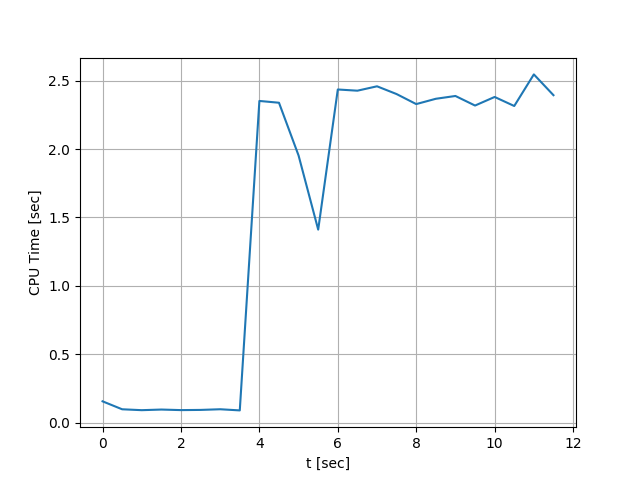
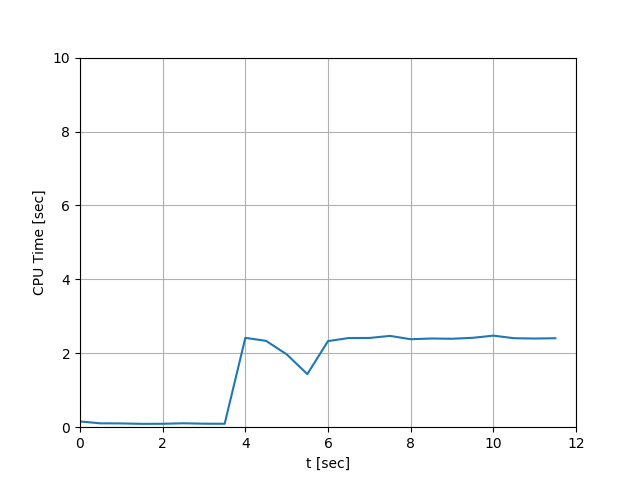
working 1 obstacle avoidance for Comparison.ppt

diff --git a/printPlots.py b/printPlots.py
@@ -61,8 +61,6 @@ def nmpcPlotSol(u_new,path,x0,obstacle,pathType):
             plt.plot(x3, y3, 'r', x4, y4, 'r')
 
     plt.grid(True)
-    plt.ylim([0, 240])
-    plt.xlim([-10, 40])
 
     if True: # obstacle is present:
 
@@ -97,8 +95,8 @@ def nmpcPlotSol(u_new,path,x0,obstacle,pathType):
     nEN = len(East)
     plt.plot(East[0:nEN], North[0:nEN], marker='x', markersize=4, color='b')
     plt.plot(East[0], North[0], marker='o', markersize=4, color='r')
-    #plt.xlim([0, 16])
-    #plt.ylim([0, 128])
+    #plt.ylim([0, 240])
+    #plt.xlim([-10, 40])
     plt.axis('equal')
 
     #plt.draw()
@@ -358,8 +356,8 @@ def nmpcPlot(t,x,u,path,obstacle,tElapsed,V_terminal,latAccel,delChi,settingsFil
     #plt.xlabel('Iteration')
     plt.xlabel('t [sec]')
     plt.grid(True)
-    #plt.xlim([0, 35])
-    #plt.ylim([0, 3])
+    plt.xlim([0,12])
+    plt.ylim([0,10])
 
 
     # figure 8

diff --git a/problemData.py b/problemData.py
@@ -198,11 +198,17 @@ elif no == 1:
     obstacleE = np.array([7.0 - 0.5]) * scaleFactorE # ft, center
     obstacleN = np.array([65.0]) * scaleFactorN # ft, center
     obstacleChi = np.array([0.0])  # rad
+
     obstacleLength = np.array([4.0]) * scaleFactorN # ft
     obstacleWidth = np.array([6.0]) * scaleFactorE # ft
-
     obstacleSafeLength = obstacleLength + 2*obstacleLengthMargin
     obstacleSafeWidth = obstacleWidth + 2*obstacleWidthMargin
+
+    # obstacleLength = np.array([4.0]) * scaleFactorN # ft
+    # obstacleWidth = np.array([3.5]) * scaleFactorE # ft
+    # obstacleSafeLength = obstacleLength + 5
+    # obstacleSafeWidth = obstacleWidth + 5
+
     obstacleSafeRadius = np.sqrt((obstacleSafeWidth/2)**2 + (obstacleSafeLength/2)**2)
 
 elif no == 2:

diff --git a/Main.py b/Main.py
@@ -95,11 +95,13 @@ pathObjArray = [pathObj]
 # Main loop
 while mpciter < mpciterations:
 
+    # start time keeping
+    tStart = time.time()
+
     #  get new initial value
     t0, x0 = measureInitialValue(tmeasure, xmeasure)
 
     # solve optimal control problem
-    tStart = time.time()
     u_new, info = solveOptimalControlProblem(N, t0, x0, u0, T, ncons, nu, path,
                                              obstacle, posIdx, ncons_option, V_cmd,
                                              lb_VTerm, lb_VdotVal, fHandleCost)
